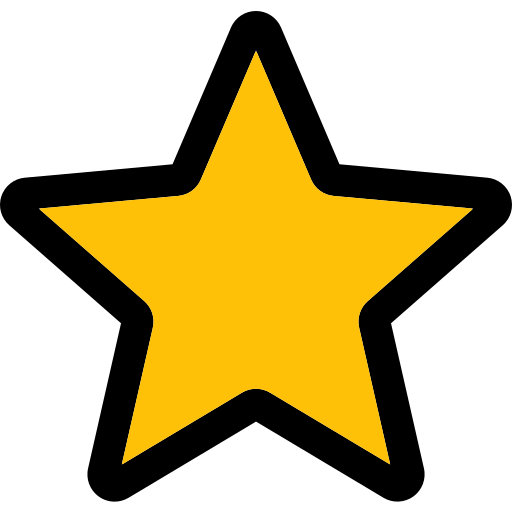
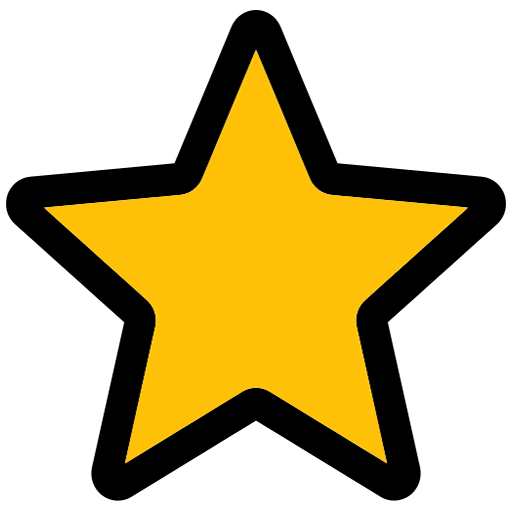
Attempt to fix star for dark mode

diff --git a/application/templates/price_history.html b/application/templates/price_history.html
@@ -14,10 +14,10 @@
 
 {% include 'products_search.html' %}
 
-<section class="container">
+<div class="m-3">
   <div class="left-product-div">
     {% if product_image_url != None %}
-        <p><img src="{{ product_image_url }}"></p>
+        <img src="{{ product_image_url }}">
     {% endif %}
   </div>
   <div class="right-product-div">
@@ -30,9 +30,9 @@
           {% endif %}
       {% endif %}
   </div>
-</section>
+</div>
 
-<div>
+<div id="price-chart-div">
     <canvas id="myChart"></canvas>
 </div>
 
@@ -59,6 +59,7 @@
         data: data,
         options: {
           responsive: true,
+          maintainAspectRatio: false,
           interaction: {
             intersect: false,
             axis: 'x'
@@ -99,7 +100,15 @@
     });
 </script>
 <p></p>
-<h4>Minimum Price: {{ minimum_price }}</h4>
-<h4>Maximum Price: {{ maximum_price }}</h4>
+<table>
+    <tr>
+        <td><h4>Minimum Price:</h4></td>
+        <td><h4>{{ minimum_price }}</h4></td>
+    </tr>
+    <tr>
+        <td><h4>Maximum Price:</h4></td>
+        <td><h4>{{ maximum_price }}</h4></td>
+    </tr>
+</table>
 
 {% endblock %}

diff --git a/application/static/index.css b/application/static/index.css
@@ -10,10 +10,6 @@ div #content-block-div {
     padding-bottom: 10px;
 }
 
-table {
-    border: 1px solid black;
-}
-
 .container {
   width: 80%;
   height: 200px;
@@ -25,11 +21,19 @@ table {
   width: 25%;
   height: 200px;
   float: left;
+  margin-right: 50px;
+  display: inline-block;
 }
 
 .right-product-div {
-  margin-left: 25%;
   height: 200px;
+  display: inline-block;
+}
+
+#price-chart-div {
+  display: inline-block;
+  width: 100%;
+  height: 300px;
 }
 
 #login_column {
@@ -42,6 +46,10 @@ table {
 }
 
 .favorite-star {
-    width: 32px;
-    height: 32px;
+    width: 48px;
+    height: 48px;
+}
+
+td {
+  padding: 0 5px;
 }

diff --git a/application/templates/bottom.html b/application/templates/bottom.html
@@ -1,7 +1,5 @@
-<footer class="d-flex flex-wrap justify-content-between align-items-center py-3 my-4 border-top">
-    <div class="row g-0 d-flex justify-content-center text-left w-75 align-items-center">
-        <div class="col-lg ml-3">
-            <a href="/about">About</a>
-        </div>
-    </div>
+<footer class="py-3 my-4 border-top">
+    <p class="text-center">
+        <a href="/about">About</a>
+    </p>
 </footer>
